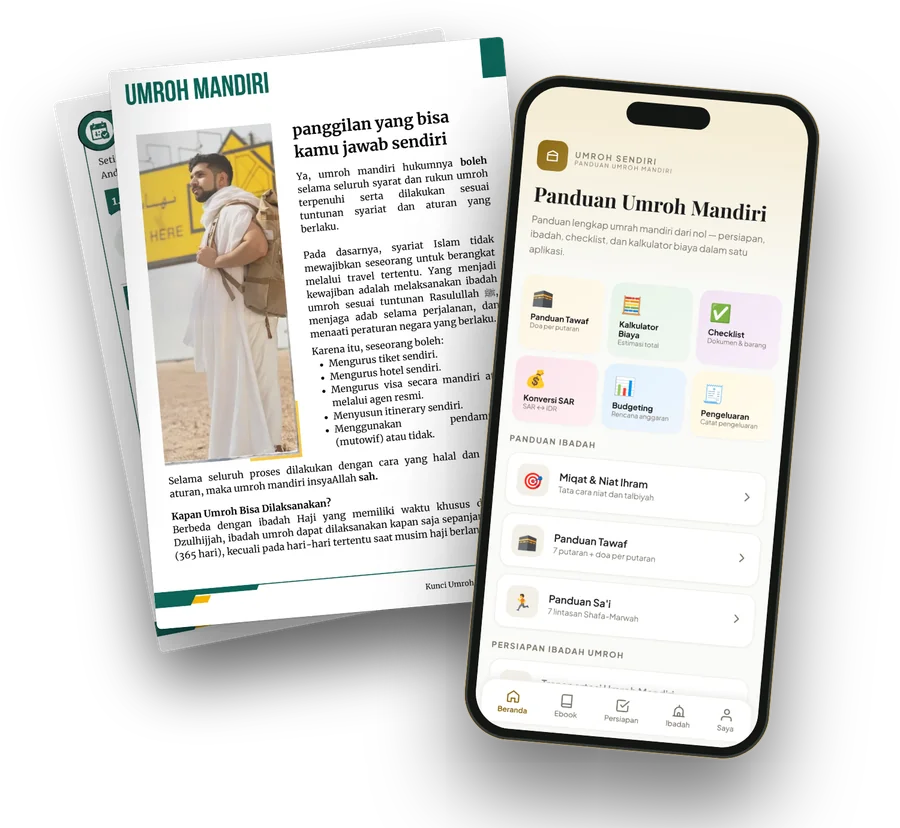
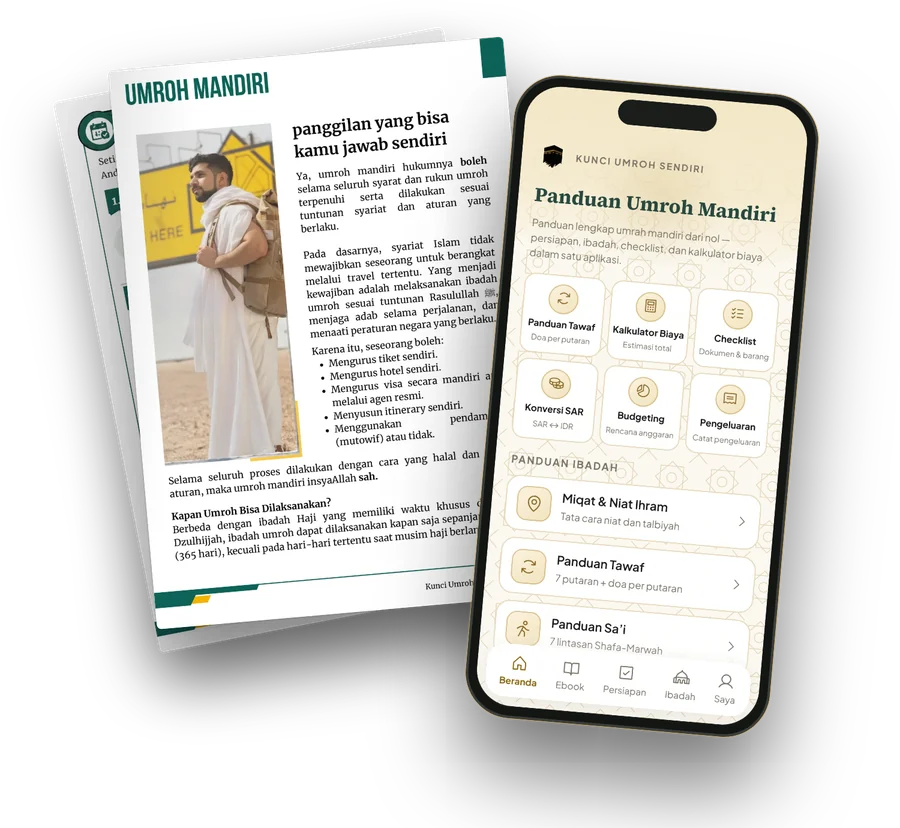
Gambar produk hero pakai tampilan aplikasi baru; pertanyaan dialihkan ke email
- produk-ebook-aplikasi.webp: HP kini menampilkan layar Beranda versi baru
  (Kunci Umroh Sendiri, ikon emas, latar islami) dengan font asli
- Kartu bantuan FAQ, kolom Hubungi kami di footer, dan tombol melayang
  kini mailto:umrohsendiri@gmail.com; tombol pembelian tetap ke WhatsApp

Claude-Session: https://claude.ai/code/session_01L1QpruKZfSYJrqd1giZNnq

diff --git a/src/styles/global.css b/src/styles/global.css
@@ -1244,3 +1244,12 @@ footer a:hover { color: var(--gold-light); }
 /* Label 13 bab / 4 tools / mutawif disembunyikan di hero: isinya sudah tampil di gambar produk
    dan di angka hero (13 bab panduan, 4 digital tools), jadi tidak menumpuk di atas HP */
 .book-stage--makkah .info-chip { display: none; }
+
+/* Pertanyaan di luar pembelian dialihkan ke email */
+.faq-help__ico { background: var(--emerald); color: var(--gold-light); box-shadow: inset 0 0 0 1px rgba(212,175,90,.5); }
+.faq-help__mail { font-size: .85rem; font-weight: 600; color: var(--gold-deep); user-select: all; }
+.footer-contact a i { color: var(--gold-light); }
+.footer-contact span { user-select: all; }
+.mail-float { background: var(--emerald); color: #fff8e7; border: 1px solid rgba(212,175,90,.55); box-shadow: 0 12px 30px rgba(11,42,34,.35); }
+.mail-float i { color: var(--gold-light); }
+.mail-float:hover { box-shadow: 0 16px 36px rgba(11,42,34,.45); }
